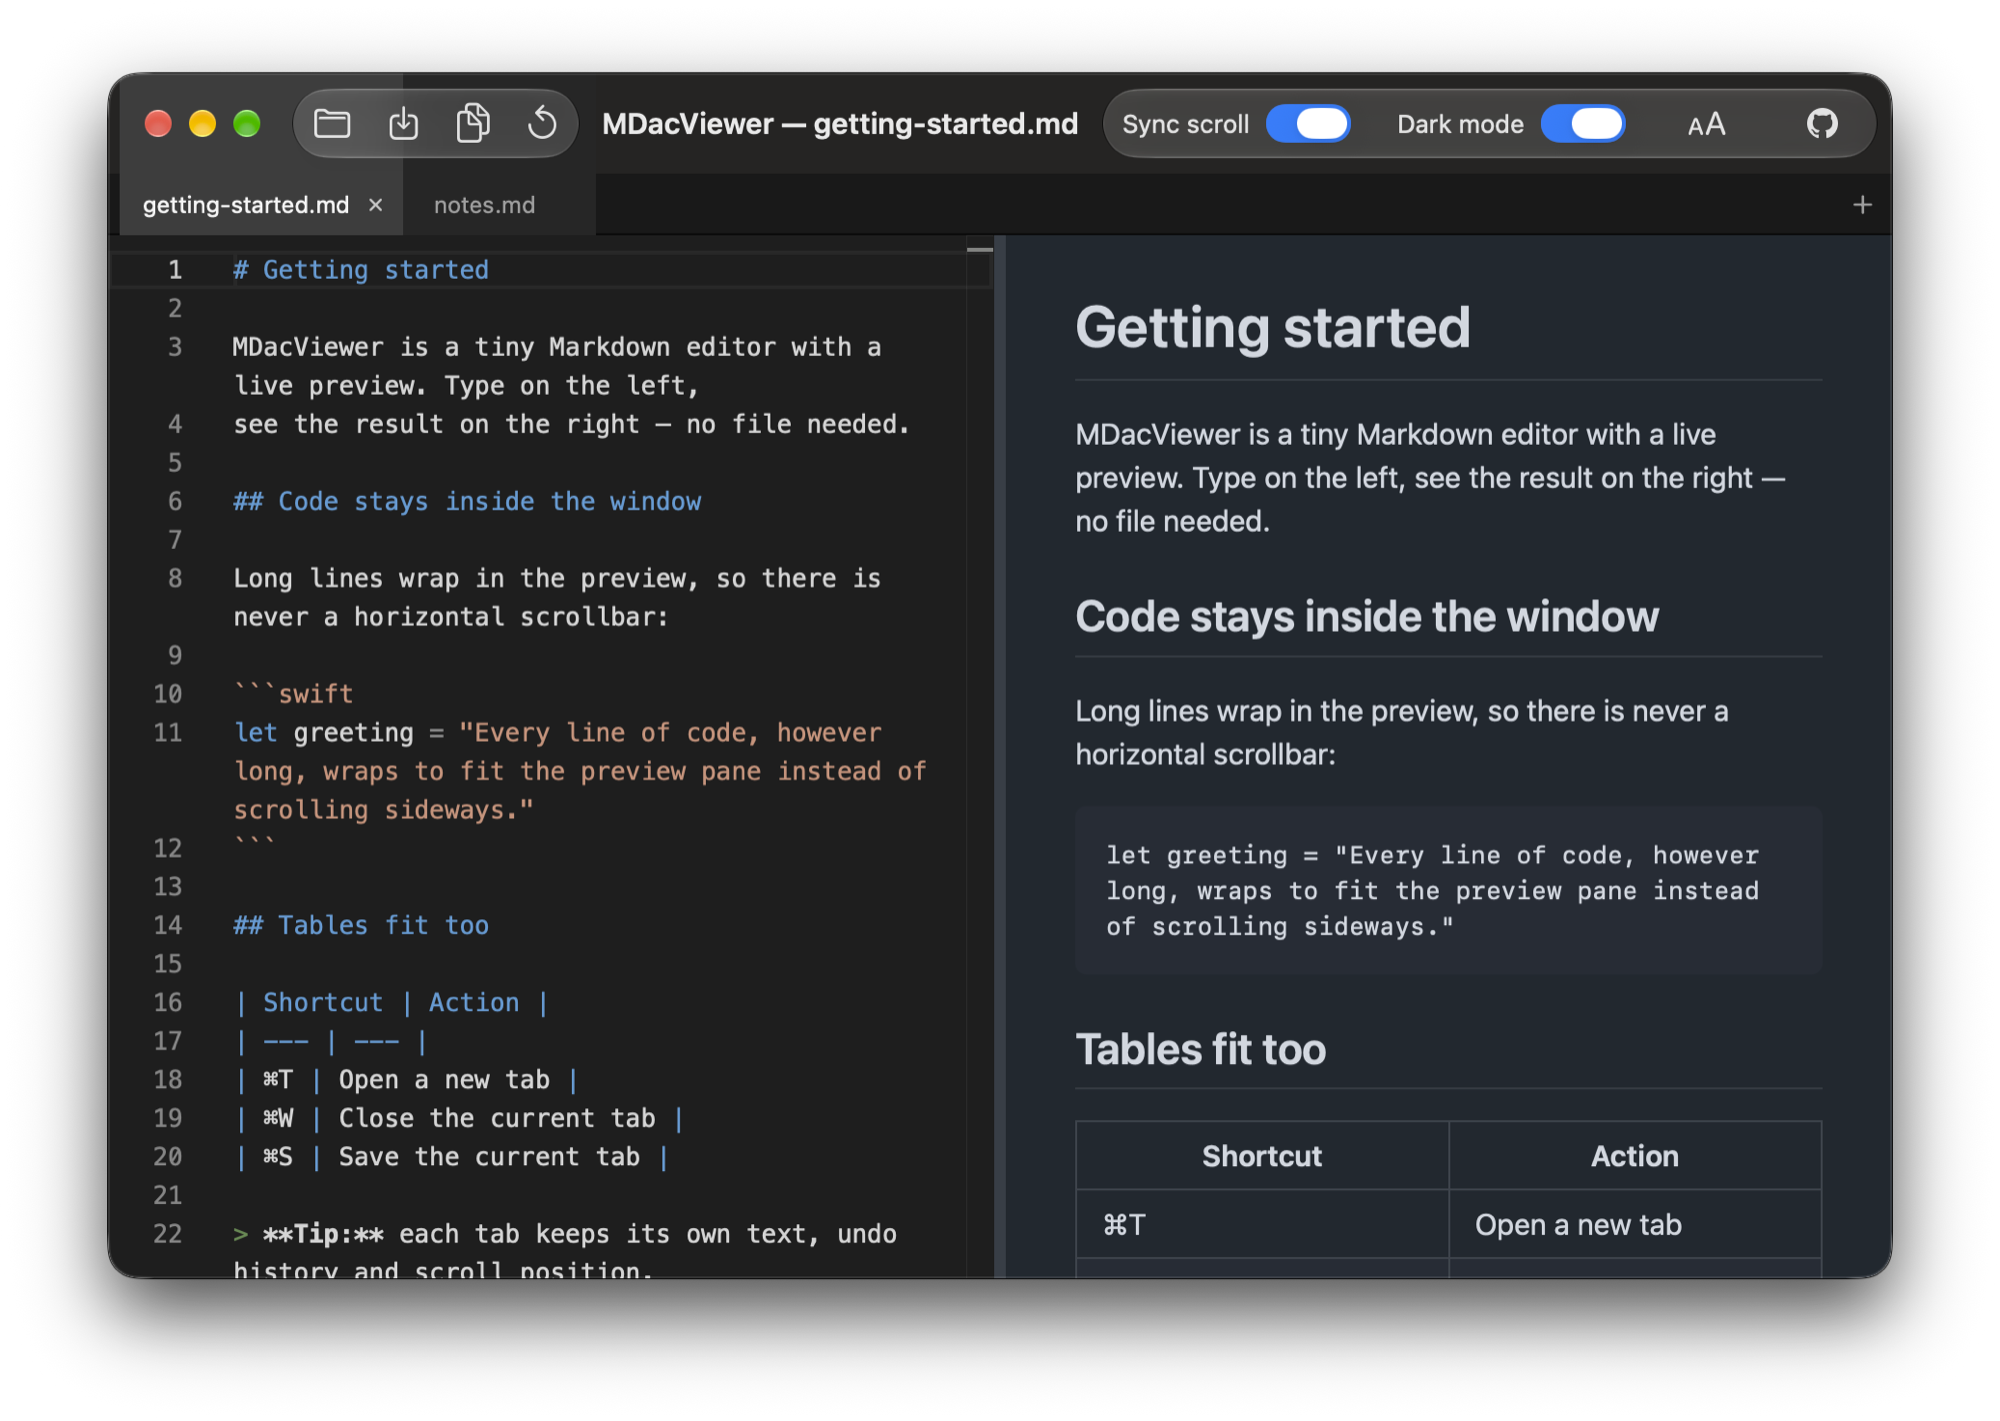
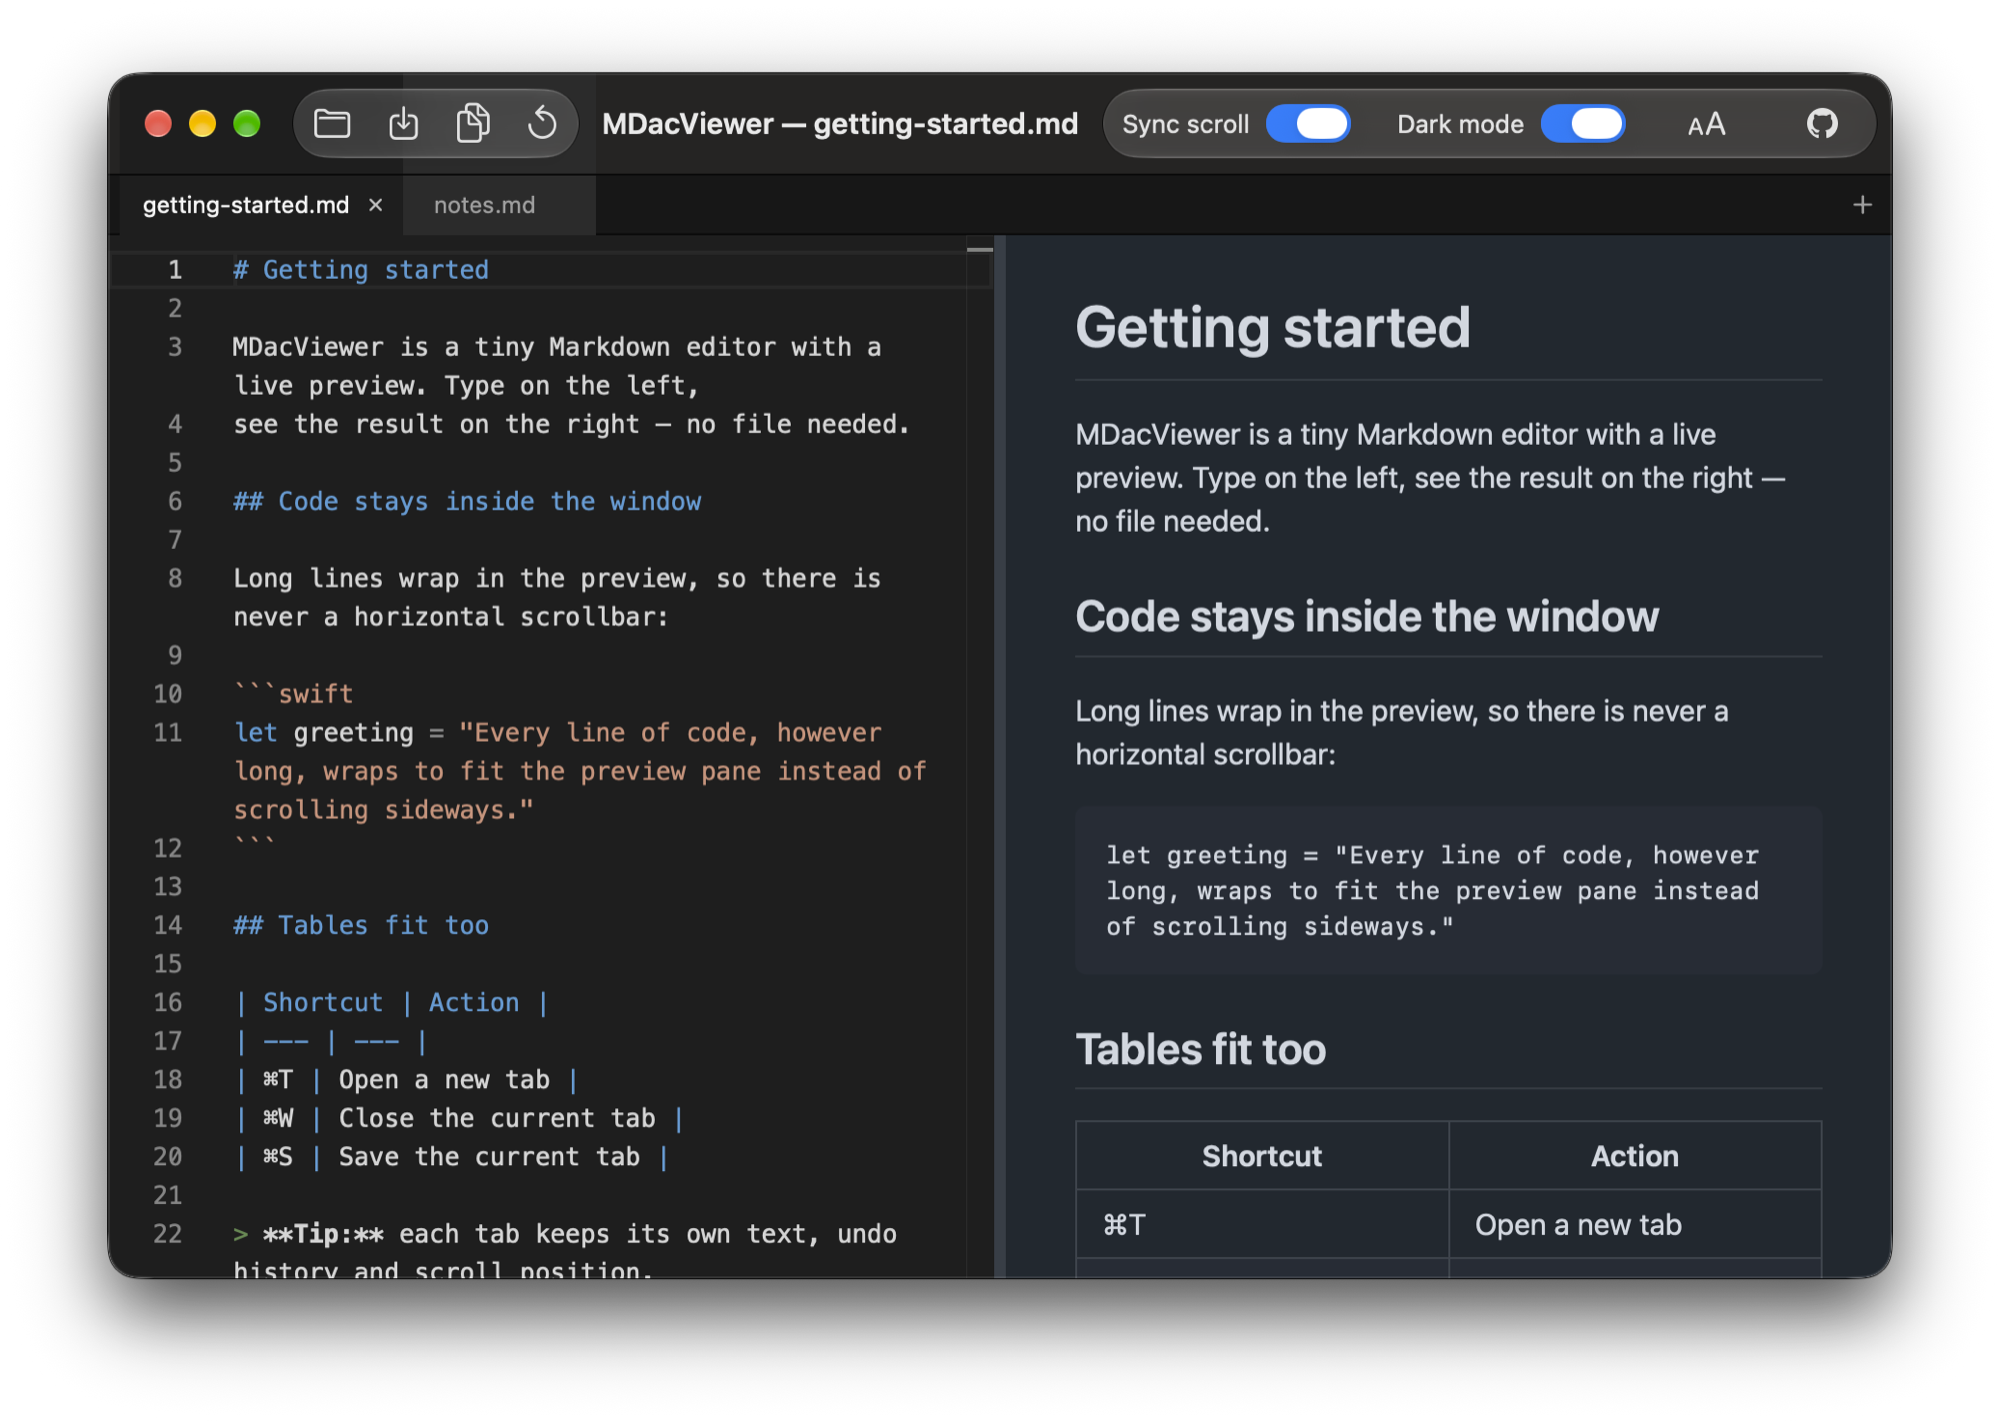
Keep the active tab out of the toolbar
The tab strip had no top edge, so a white active tab merged into the light toolbar (and the grey active tab merged into the dark toolbar's button pill), making the tab look like it bled up into the window chrome.

Draw a hairline above the strip and, in dark mode, use the editor's own #1e1e1e for the active tab so it connects to the content below instead of to the toolbar. Refresh the README screenshots.

Changed region(s): [[0.062, 0.031, 0.217, 0.1858]]

diff --git a/Sources/MDacViewer/TabBar.swift b/Sources/MDacViewer/TabBar.swift
@@ -38,6 +38,14 @@ struct DocumentTabBar: View {
                     .frame(height: 1)
             }
         }
+        .overlay(alignment: .top) {
+            // A hairline between the window toolbar and the strip. Without it
+            // the active tab can merge into the toolbar above (most visibly in
+            // dark mode, where both surfaces are grey), which reads as a bug.
+            Rectangle()
+                .fill(palette.topBorder)
+                .frame(height: 1)
+        }
     }
 
     /// Sublime hides the separators that touch the active tab, so the selected
@@ -146,17 +154,22 @@ struct TabBarPalette {
     let inactiveHover: Color
     let active: Color
     let divider: Color
+    let topBorder: Color
     let bottomBorder: Color
     let inactiveText: Color
     let activeText: Color
 
     init(dark: Bool) {
         if dark {
-            strip = Color(red: 0.10, green: 0.10, blue: 0.10)
-            inactive = Color(red: 0.15, green: 0.15, blue: 0.15)
-            inactiveHover = Color(red: 0.20, green: 0.20, blue: 0.20)
-            active = Color(red: 0.24, green: 0.24, blue: 0.24)
-            divider = Color(red: 0.07, green: 0.07, blue: 0.07)
+            strip = Color(red: 0.09, green: 0.09, blue: 0.09)
+            inactive = Color(red: 0.17, green: 0.17, blue: 0.17)
+            inactiveHover = Color(red: 0.21, green: 0.21, blue: 0.21)
+            // The active tab uses the editor's own background (#1e1e1e), so it
+            // reads as one continuous surface with the content below — exactly
+            // as it does in light mode, where the tab is white.
+            active = Color(red: 0.118, green: 0.118, blue: 0.118)
+            divider = Color(red: 0.06, green: 0.06, blue: 0.06)
+            topBorder = Color(red: 0.04, green: 0.04, blue: 0.04)
             bottomBorder = Color(red: 0.04, green: 0.04, blue: 0.04)
             inactiveText = Color(red: 0.62, green: 0.62, blue: 0.62)
             activeText = Color(red: 0.96, green: 0.96, blue: 0.96)
@@ -166,6 +179,7 @@ struct TabBarPalette {
             inactiveHover = Color(red: 0.92, green: 0.92, blue: 0.92)
             active = .white
             divider = Color(red: 0.73, green: 0.73, blue: 0.73)
+            topBorder = Color(red: 0.72, green: 0.72, blue: 0.72)
             bottomBorder = Color(red: 0.69, green: 0.69, blue: 0.69)
             inactiveText = Color(red: 0.36, green: 0.36, blue: 0.36)
             activeText = Color(red: 0.09, green: 0.09, blue: 0.09)

diff --git a/REPRODUCE.md b/REPRODUCE.md
@@ -265,9 +265,11 @@ Accessibility permission.
 The tab strip above the editor now follows Sublime Text's visual language:
 
 - flat, square tabs instead of rounded pills;
-- the active tab is the lightest surface in light mode (white, matching the
-  editor) and the lightest grey in dark mode, while inactive tabs are dimmed;
-- inactive tab labels are muted, the active label is full-strength;
+- the active tab uses the same background as the editor — white in light mode,
+  `#1e1e1e` in dark mode — while inactive tabs sit on a contrasting grey and
+  their labels are dimmed;
+- a hairline at the top separates the tab strip from the window toolbar, so the
+  active tab never looks like it bleeds up into the toolbar;
 - the thin separators between tabs disappear next to the active tab, so it
   reads as one continuous surface with the editor below;
 - the close × appears only on the active tab or the tab under the pointer, as in
